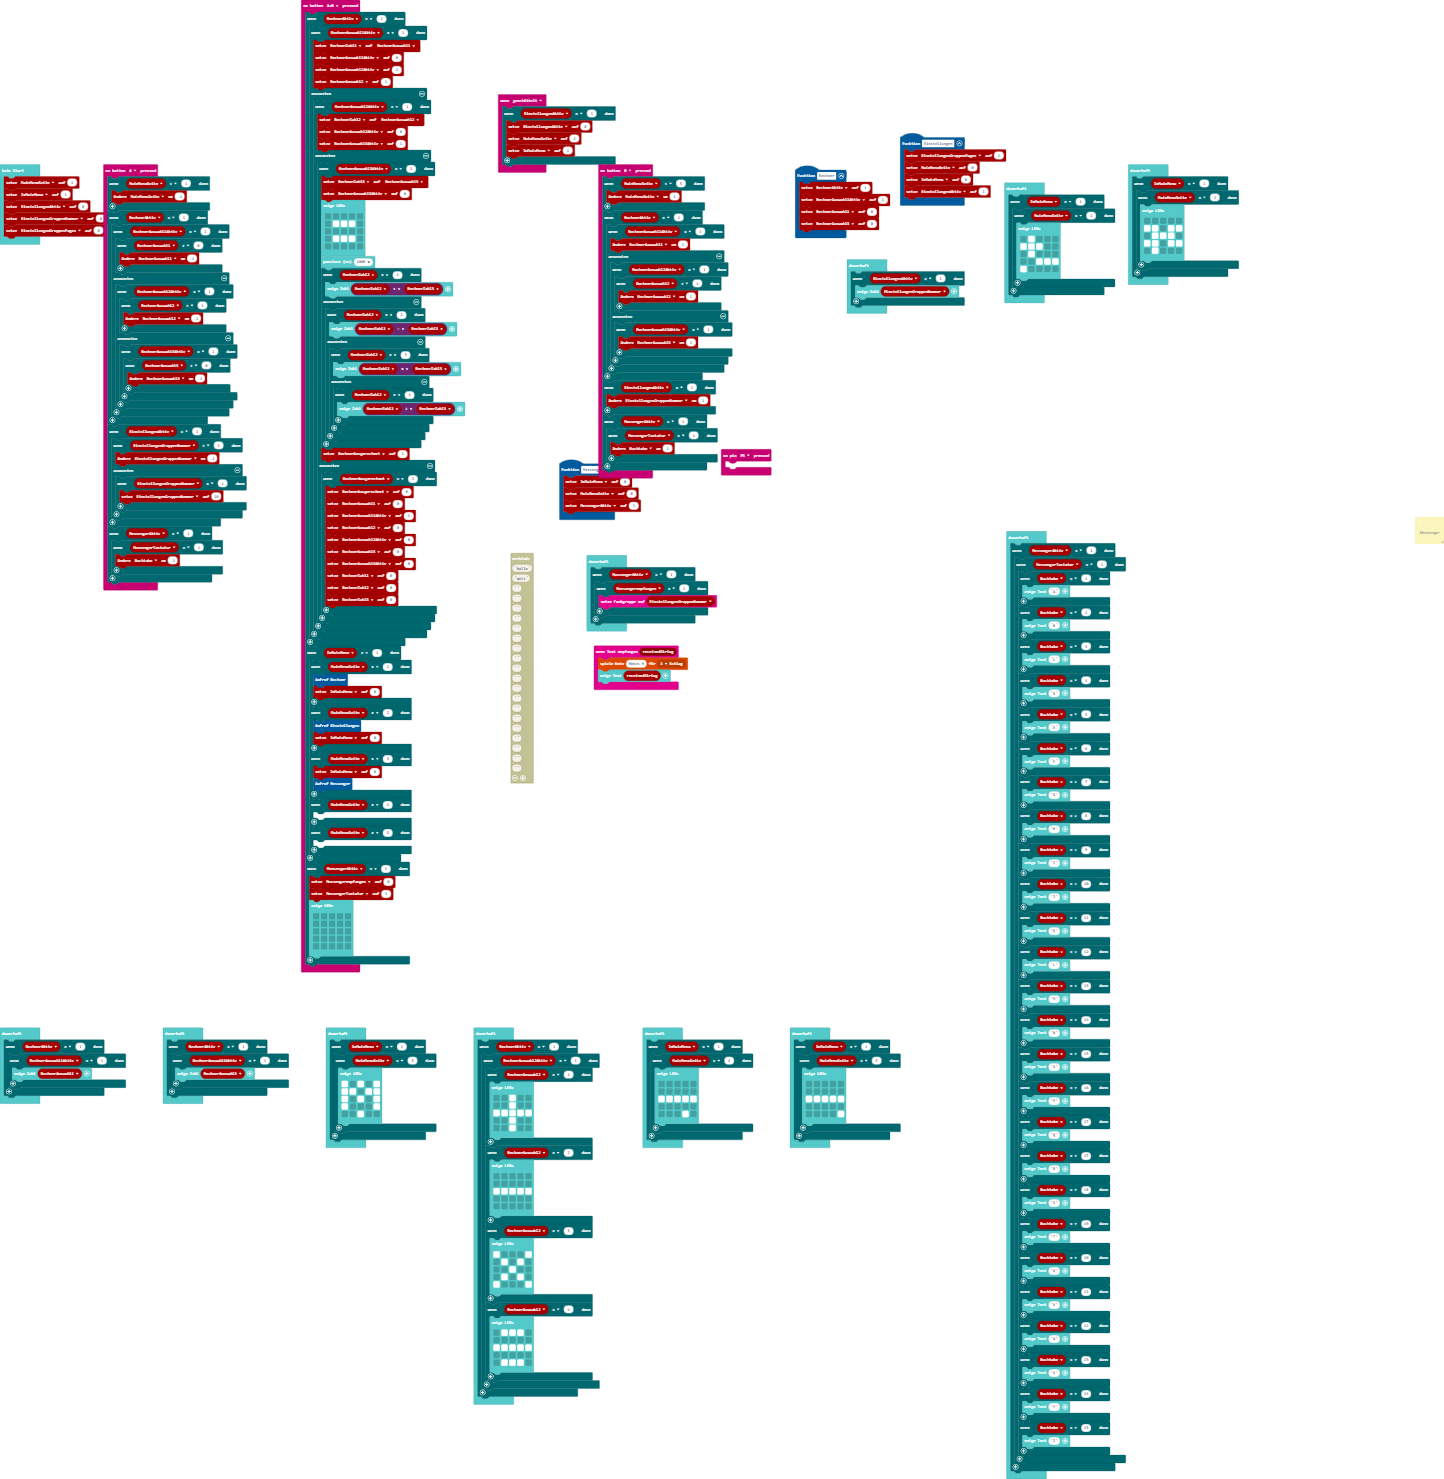
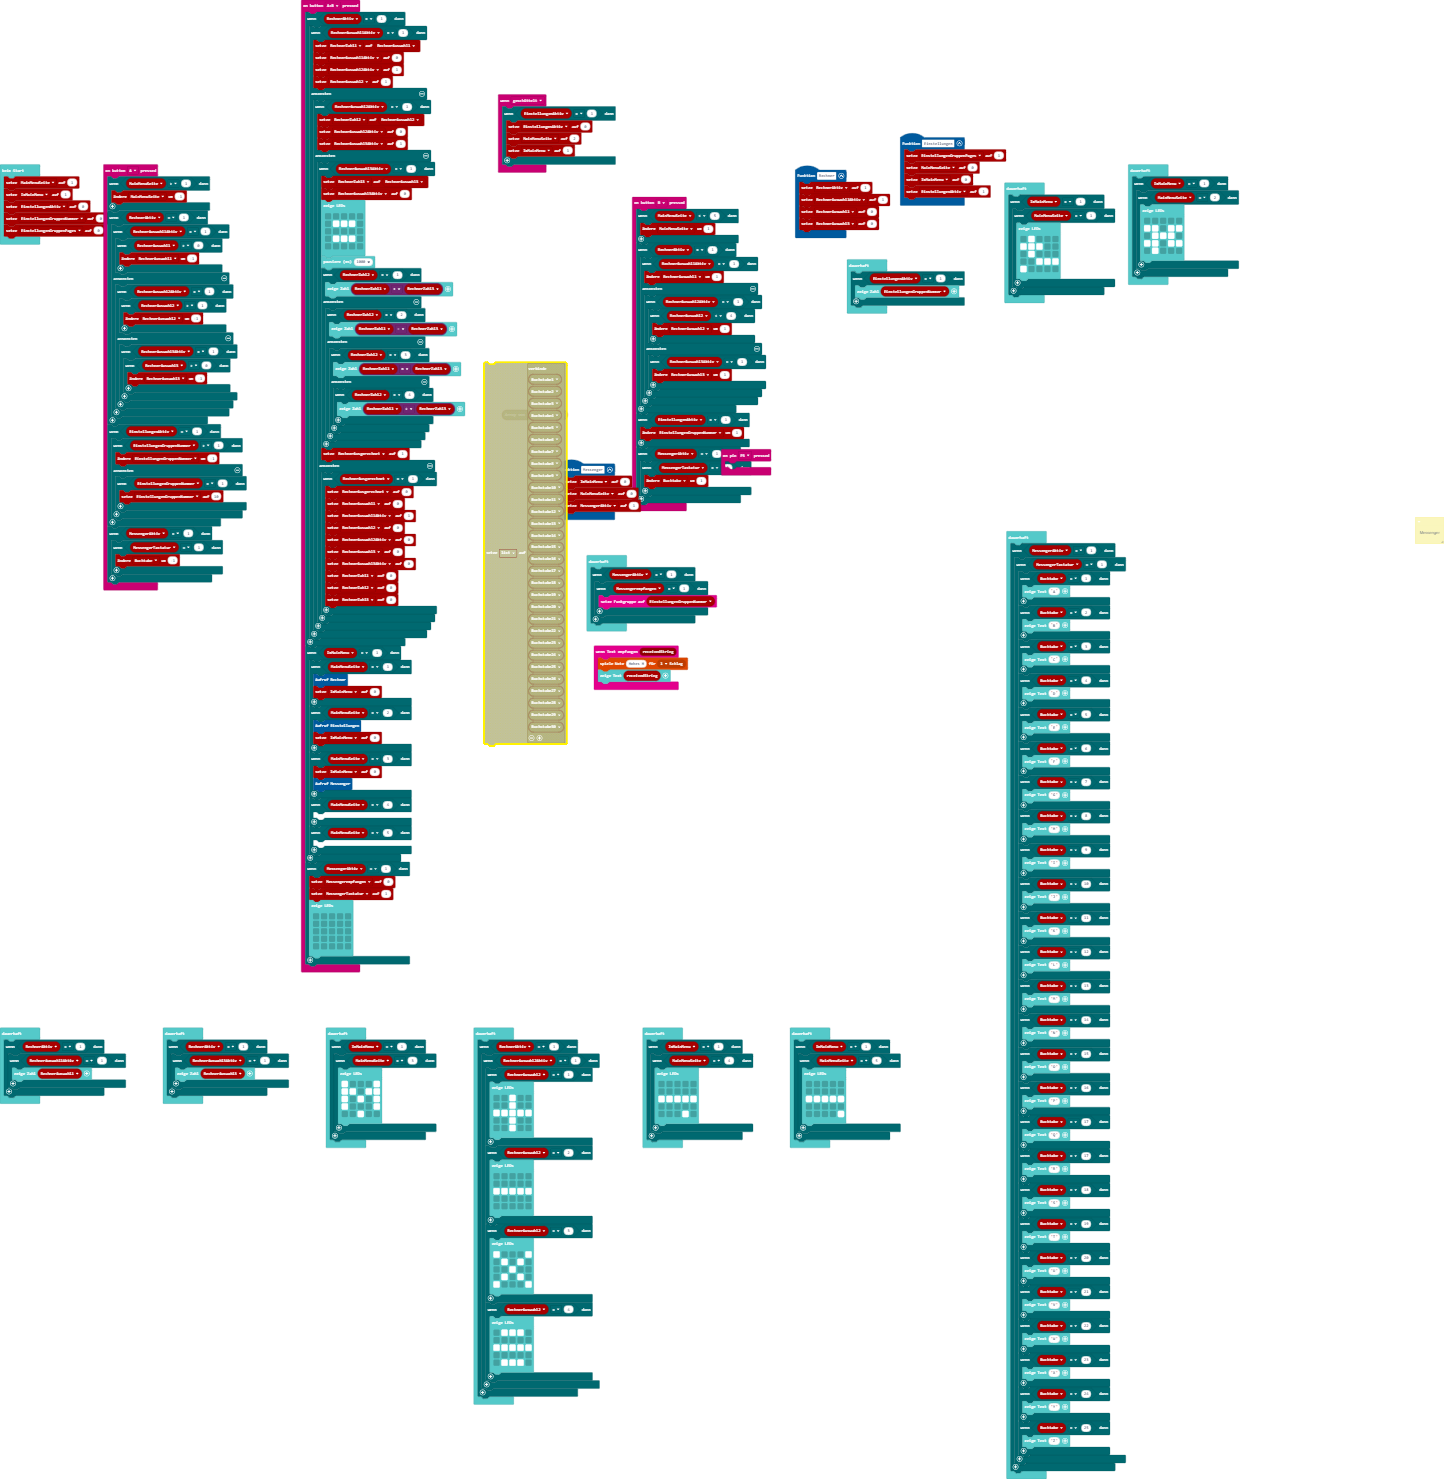
Aktualisiere main.blocks, main.ts

Changed region(s): [[0.3116, 0.0933, 0.5298, 0.5287]]

diff --git a/main.ts b/main.ts
@@ -355,7 +355,7 @@ basic.forever(function () {
     if (ImMainMenu == 1) {
         if (MainMenuSeite == 3) {
             basic.showLeds(`
-                # . # . #
+                # . . . #
                 # # . # #
                 # . # . #
                 # . . . #
